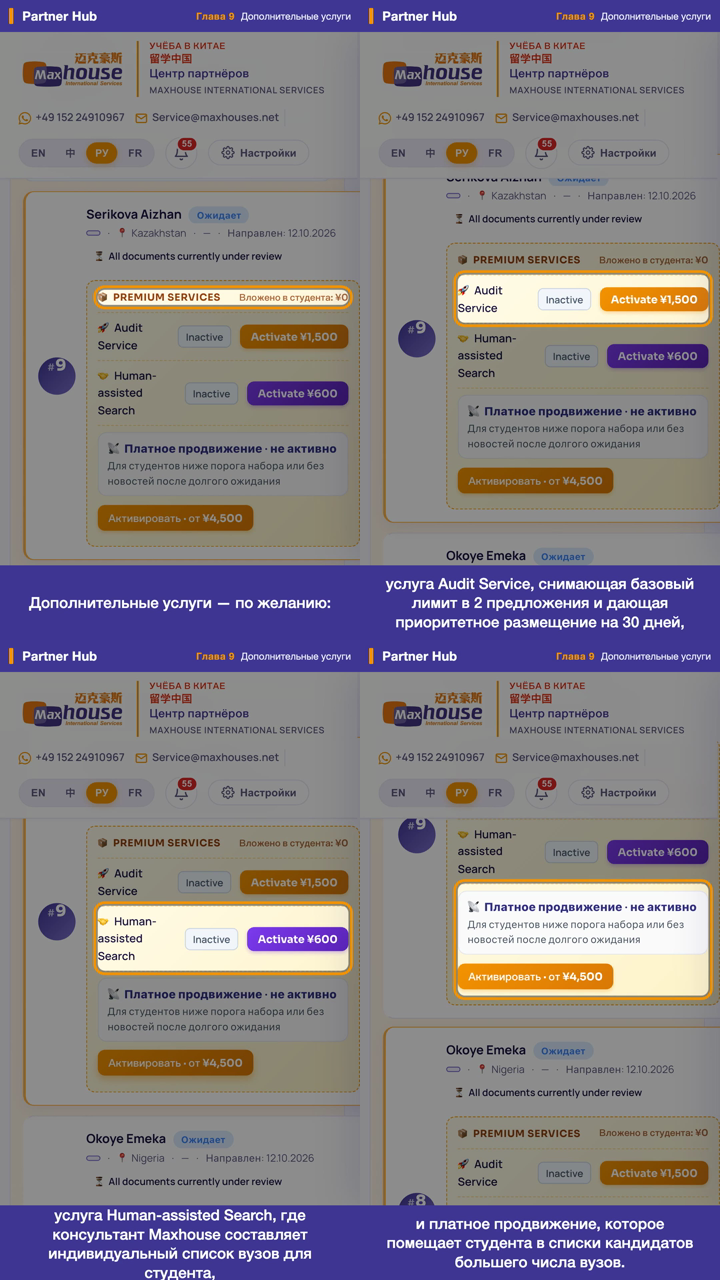
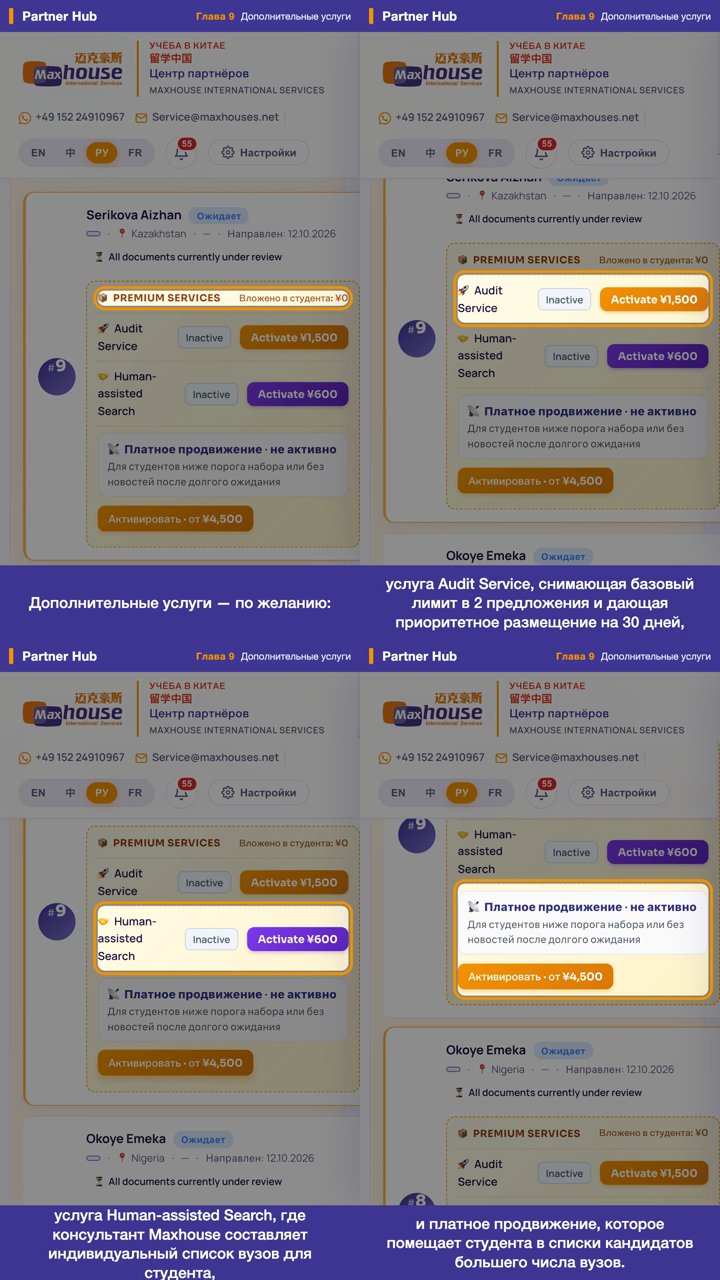
JOB-GP1 返工trip34: ch9 增值服务章(读-only) v185 四语横竖定版重录——review1 §一 背景。字幕/高亮 trip23(§三.6)已改对·本趟纯换录制底座 v184→v185(漏斗修复已上线 RULING-e)重录 ch9 4 镜使背景落定版。亲验 en-land 9-1/9-2+ru-land 9-1 原始帧+四语 land/port 联络表:增值服务区标题行右 Invested on this student ¥0(缺陷1 销账无负数)·Audit ¥1,500/Human-assisted ¥600/付费曝光 ¥4,500 起三行与字幕逐镜对账仍是·R

diff --git a/JOB-GP1-03-PROGRESS.md b/JOB-GP1-03-PROGRESS.md
@@ -1,4 +1,15 @@
-最后一趟：2026-10-13 第33趟 返工：**做了**＝ch5 材料退回章（两态·state 章）v185 四语横竖定版重录，落 review1 §三.3（5-2 字幕）+§三.4（5-4 真·审核中态）+§三.8（5-1 工作台）+§一（v185 背景）。**两态为何必需**：5-2 需退回态 `.reviewer-row-rejected`、5-4 需审核中态 `.badge-reviewing`，apply `st-pt03-reupload` 后 transcript 被产品 0104 supersede、退回行消失→单 rec pass 不可兼得（trip25 实证）。故**两态分录**：退回基线录 5-1/5-2/5-3，置态后单录 5-4，`prod-ch --tags` 按镜序拼成一章。**工具（jobs 工装·非产品码·rec 仍只读·DB 全走 db-run.sh）**：rec.mjs 加 `--only`/`--tagsuffix`、prod-ch.mjs 加多 tag 拼章、gp1-finish.mjs chapterShotDurs 合并 companion `b` 目录。**§三.4 真态（零改产品码·非前端伪造）**：录前 `st-pt03-reupload`（新建 transcript v2、uploaded_at 更晚、无新裁决）→ 产品自身 0104 supersede → 详情弹窗 transcript 槽真变 reviewing → 徽章真·本地化：zh「审核中」/ru「НА ПРОВЕРКЕ」/fr「EN EXAMEN」/en「REVIEWING」+ 矩阵「等待初步审核/Ожидает первичной проверки/En attente de la première vérification/Awaiting initial review」（四语 land 原始帧亲验，非 EN 回退、非伪造）。录后 `st-pt03-reupload-reset-cleanup` 删 v2 回退态。**§一**：5-1「Invested ¥0」无负数（缺陷1 销账）。8 片全 res OK+audio yes+no @gmail+4 镜 hl 全 resolve（passA 3+passB 1）。EN land 4 镜原始帧 + 四语 land 5-4 徽章帧 + 四语 land/port 联络表（帧取字幕中点）亲验；§十一对账四语写 REVIEW-*-shots.md（ch5 定版段）。时长 land en36.87/zh36.82/ru36.97/fr36.67·port en36.83/zh36.77/ru36.84/fr36.81s（4 镜）。开工+收工 verify **17/17 PASS 0 FAIL**，baseline 守住（scoped 复位，无全量 rebuild）。ch5 v1 在 `_v1/` 留底、dist 覆盖定版 v2。**全片不重拼**（待全部工作台章完后统一拼）。主仓库点名提交 JOB-GP1 不推；四语 ch5 联络表(land+port)+4 REVIEW+决定账+PROGRESS 推 mh-jobs。**下趟**＝下一含工作台章定版重录（ch9 9-2/9-3 已改·需 v185 背景重录 / ch10 读-only / OP-3·4·5 开场快剪，素材已不阻塞），一趟一章；全部完后四语十一项重审+重拼全片→写 SUMMARY-GP1。**GP-1 未收官，勿据旧『收官』停工。**
+最后一趟：2026-10-13 第34趟 返工：**做了**＝ch9 增值服务章（读-only）v185 四语横竖定版重录，落 review1 §一（v185 工作台背景）。ch9 字幕/高亮 trip23（§三.6）已改对——9-1 增值服务区标题、9-2 Audit ¥1,500、9-3 Human-assisted ¥600、9-4 付费曝光 ¥4,500 起，逐镜框对应真行，字幕/shot 一字未动（已 banked）。本趟纯换录制底座 v184→v185（漏斗修复已上线 RULING-e，rec.mjs trip28 已切 FILE=partner-portal-v185.html）重录 8 变体 + prod-ch 合成覆盖 dist，使背景数字落定版。亲验 en-land 9-1/9-2 原始帧 + ru-land 9-1 原始帧 + 四语 land/port 联络表：增值服务区标题行右「Invested on this student: **¥0** / 该学生已投入：¥0 / Вложено в студента: ¥0 / Investi pour cet étudiant : ¥0」**无负数**（缺陷1 销账，§一达标）；三服务行价与字幕逐镜对账仍「是」；RU/FR chrome 真本地化（Центр партнёров/Ожидает/Платное продвижение/Espace partenaires…），Audit Service/Human-assisted Search 等 LL 动态串英文回退（D-18-4 照录不补，留 SUMMARY）。8 片全 res OK+audio yes+no @gmail+4 镜 box 全 resolve。§十一对账四语写 REVIEW-*-shots.md（ch9 v185 定版段）。时长 land en22.73/zh23.77/ru26.38/fr24.18·port en22.79/zh23.76/ru26.46/fr24.30s（4 镜）。ch9 读-only 零写库，开工+收工 verify **17/17 PASS 0 FAIL**，baseline 守住。ch9 v1 早在 `_v1/` 留底、dist 覆盖定版 v2。**全片不重拼**（待全部工作台章完后统一拼）。主仓库点名提交 JOB-GP1 不推；四语 ch9 联络表(land+port)+4 REVIEW+决定账+PROGRESS 推 mh-jobs。**下趟**＝ch10（读-only v185 背景重录）/ OP-3·4·5 开场快剪（素材 3-8/7-0/7-1 已随 ch3/ch7 定版就位，不再阻塞），一趟一章；全部完后四语十一项重审+重拼全片→写 SUMMARY-GP1。**GP-1 未收官，勿据旧『收官』停工。**
+
+# 第 34 趟（2026-10-13 Mac mini 无人值守）· ch9 增值服务章（读-only）v185 定版重录（review1 §一）
+- **接手核对**：git status + 读齐 PROGRESS/loop-tail/RULING-b-review1/-c-rework/-d-funnel/-e-v185-live/-gp1/DECISIONS/CHOREOGRAPHY/storyboard/QUEUE。辨明 16:00 那趟「2 分钟即停」＝误判收官（loop-tail 实证），返工实为 trip29-33 做 ch1/3/7/8/5；trip33 列下趟 ch9 首。首行开工即改「返工进行中」，开工 verify **17/17 PASS**。
+- **选题**：ch9 读-only，字幕 trip23 已改对，缺的只是 v185 背景。纯重录，无置态。
+- **录制闭环**：`node rec.mjs --chapter 9 --orient {land,port} --lang {en,zh,ru,fr}`（引号位置参数避 LEDGER-3）8 变体 → `prod-ch --tag *-ch9` 合成 8 片覆盖 dist → `gp1-finish --stage contact --chapter 9` 四语联络表。
+- **自验**：8 片 res/audio/no-@gmail/4 镜 box 全过；亲验 en-land 9-1/9-2 + ru-land 9-1 原始帧（¥0 无负数、三服务价、RU 真本地化）+ 四语联络表（字幕逐镜对账「是」）；§十一四语写 REVIEW-*-shots.md（ch9 v185 定版段）。
+- **DB**：ch9 读-only，开工+收工 verify **17/17 PASS 0 FAIL**，零写库。
+- **改了**（主仓库，点名 JOB-GP1，不推）：`REVIEW-{en,zh,ru,fr}-shots.md`(追加 ch9 v185 定版段)、`DECISIONS.md`(D-34-1)。shots-v1.json/captions-v1.json 未改（trip23 已 banked）；成片/voice 不入 git；ch9 v1 在 `_v1/`、dist 覆盖 v2；全片不重拼。四语 ch9 联络表+4 REVIEW+决定账+PROGRESS 推 mh-jobs。
+- **下趟**：ch10 读-only v185 背景重录 / OP-3·4·5 开场快剪，一趟一章；全部完后十一项重审+重拼全片→写 SUMMARY-GP1。GP-1 未收官。
+
+【上一趟（第33趟）首行存档】最后一趟：2026-10-13 第33趟 返工：**做了**＝ch5 材料退回章（两态·state 章）v185 四语横竖定版重录，落 review1 §三.3（5-2 字幕）+§三.4（5-4 真·审核中态）+§三.8（5-1 工作台）+§一（v185 背景）。**两态为何必需**：5-2 需退回态 `.reviewer-row-rejected`、5-4 需审核中态 `.badge-reviewing`，apply `st-pt03-reupload` 后 transcript 被产品 0104 supersede、退回行消失→单 rec pass 不可兼得（trip25 实证）。故**两态分录**：退回基线录 5-1/5-2/5-3，置态后单录 5-4，`prod-ch --tags` 按镜序拼成一章。**工具（jobs 工装·非产品码·rec 仍只读·DB 全走 db-run.sh）**：rec.mjs 加 `--only`/`--tagsuffix`、prod-ch.mjs 加多 tag 拼章、gp1-finish.mjs chapterShotDurs 合并 companion `b` 目录。**§三.4 真态（零改产品码·非前端伪造）**：录前 `st-pt03-reupload`（新建 transcript v2、uploaded_at 更晚、无新裁决）→ 产品自身 0104 supersede → 详情弹窗 transcript 槽真变 reviewing → 徽章真·本地化：zh「审核中」/ru「НА ПРОВЕРКЕ」/fr「EN EXAMEN」/en「REVIEWING」+ 矩阵「等待初步审核/Ожидает первичной проверки/En attente de la première vérification/Awaiting initial review」（四语 land 原始帧亲验，非 EN 回退、非伪造）。录后 `st-pt03-reupload-reset-cleanup` 删 v2 回退态。**§一**：5-1「Invested ¥0」无负数（缺陷1 销账）。8 片全 res OK+audio yes+no @gmail+4 镜 hl 全 resolve（passA 3+passB 1）。EN land 4 镜原始帧 + 四语 land 5-4 徽章帧 + 四语 land/port 联络表（帧取字幕中点）亲验；§十一对账四语写 REVIEW-*-shots.md（ch5 定版段）。时长 land en36.87/zh36.82/ru36.97/fr36.67·port en36.83/zh36.77/ru36.84/fr36.81s（4 镜）。开工+收工 verify **17/17 PASS 0 FAIL**，baseline 守住（scoped 复位，无全量 rebuild）。ch5 v1 在 `_v1/` 留底、dist 覆盖定版 v2。**全片不重拼**（待全部工作台章完后统一拼）。主仓库点名提交 JOB-GP1 不推；四语 ch5 联络表(land+port)+4 REVIEW+决定账+PROGRESS 推 mh-jobs。**下趟**＝下一含工作台章定版重录（ch9 9-2/9-3 已改·需 v185 背景重录 / ch10 读-only / OP-3·4·5 开场快剪，素材已不阻塞），一趟一章；全部完后四语十一项重审+重拼全片→写 SUMMARY-GP1。**GP-1 未收官，勿据旧『收官』停工。**
 
 # 第 33 趟（2026-10-13 Mac mini 无人值守）· ch5 材料退回章（两态·state 章）v185 定版重录（review1 §三.3 + §三.4 + §三.8 + §一）
 - **接手核对**：git status + 读齐 PROGRESS/loop-tail/RULING-b-review1/-c-rework/-d-funnel/-e-v185-live/DECISIONS/storyboard/QUEUE。trip32 ch8 已定版；下趟列 ch5 首。首行开工即改「返工进行中」，开工 verify **17/17 PASS**（#10 pt-03 退回态在）。

diff --git a/JOB-GP1-decisions.md b/JOB-GP1-decisions.md
@@ -608,3 +608,12 @@
 - **非四种停下情形**：§三.3/.4/.8 + §一全在 §0.3/§0.4 + 成片工装范围，记账继续。
 - **改了**（主仓库，点名 JOB-GP1，不推）：`rec/rec.mjs`(--only/--tagsuffix)、`rec/prod-ch.mjs`(多 tag 拼章)、`rec/gp1-finish.mjs`(chapterShotDurs 合并 companion)、`REVIEW-{en,zh,ru,fr}-shots.md`(追加 ch5 定版段)、`DECISIONS.md`。shots-v1.json/captions-v1.json 本趟未改（5-4 shot 定义 trip25 已落、字幕四语 trip24/16 已 banked）；成片/voice 不入 git；ch5 v1 在 `_v1/` 留底、dist 覆盖定版 v2。四语 ch5 联络表(land+port)+4 REVIEW+决定账+PROGRESS 推 mh-jobs。
 - **下趟**：下一含工作台章定版重录——ch9（9-2/9-3 字幕 trip23 已改·需 v185 背景重录）/ ch10（读-only v185）/ OP-3·4·5 开场快剪（素材 3-8/7-0/7-1 已随 ch3/ch7 定版就位，不再阻塞）。一趟一章；全部完后四语十一项重审+重拼全片→写 SUMMARY-GP1。**GP-1 未收官。**
+
+## D-34-1 · ch9 增值服务章 v185 定版重录（返工第34趟 2026-10-13，review1 §一 背景）
+- **背景**：ch9（增值服务章，4 镜 9-1..9-4，读-only·列表卡内联无弹窗）字幕/高亮 trip23（§三.6）已改对——9-1 增值服务区标题、9-2 Audit ¥1,500、9-3 Human-assisted ¥600、9-4 付费曝光 ¥4,500 起，逐镜框对应真行。但 trip23 录制底座仍 v184（有漏斗/负数缺陷）。§一 列 ch9 为背景含工作台数字的章，v185 漏斗修复上线后（RULING-e）须 v185 重录。
+- **做法**：rec.mjs 已在 trip28 切 v185（FILE=partner-portal-v185.html）。本趟纯重录——`node rec.mjs --chapter 9 --orient {land,port} --lang {en,zh,ru,fr}` 8 变体 + `prod-ch --tag *-ch9` 合成 8 片覆盖 dist。字幕/shot 定义一字未改（trip23 已 banked）。ch9 读-only，无置态/复位。
+- **自验**：亲验 en-land 9-1/9-2 原始帧 + ru-land 9-1 原始帧 + 四语 land/port 联络表——增值服务区标题行右「Invested on this student: ¥0 / 该学生已投入：¥0 / Вложено в студента: ¥0 / Investi pour cet étudiant : ¥0」**无负数**（缺陷1 销账，§一达标）；三服务行价与字幕逐镜对账仍「是」；RU/FR chrome 真本地化，Audit Service/Human-assisted Search 等 LL 动态串英文回退（D-18-4 照录不补，留 SUMMARY）。8 片 res OK + audio yes + 4 镜 box 全 resolve + no @gmail。时长 land en22.73/zh23.77/ru26.38/fr24.18 · port en22.79/zh23.76/ru26.46/fr24.30s。
+- **DB**：ch9 读-only，开工+收工 verify **17/17 PASS 0 FAIL**，baseline 守住。
+- **非四种停下情形**：§一背景在 §0.3 范围（无写库）+ 成片工装范围，记账继续。
+- **改了**（主仓库，点名 JOB-GP1，不推）：`REVIEW-{en,zh,ru,fr}-shots.md`(追加 ch9 v185 定版段)、`DECISIONS.md`。shots-v1.json/captions-v1.json 本趟未改（trip23 已 banked）；成片/voice 不入 git；ch9 v1 早在 `_v1/` 留底、dist 覆盖定版 v2；全片不重拼（待全部工作台章完后统一拼）。四语 ch9 联络表(land+port)+4 REVIEW+决定账+PROGRESS 推 mh-jobs。
+- **下趟**：ch10（读-only v185 背景重录）/ OP-3·4·5 开场快剪（素材 3-8/7-0/7-1 已随 ch3/ch7 定版就位）。一趟一章；全部完后四语十一项重审+重拼全片→写 SUMMARY-GP1。**GP-1 未收官。**

diff --git a/JOB-GP1-REVIEW-en-shots.md b/JOB-GP1-REVIEW-en-shots.md
@@ -17,7 +17,8 @@
 - 页头平台 WhatsApp/Email 不遮（D-14-3/D-15-1 批准）。演示生 Serikova Aizhan，无真 PII。
 - 高亮逐张亲眼复验：9-2 框 Audit Service 行、9-3 框 Human-assisted Search 行、9-4 框 Exposure boost 行，各不越界。
 
-## ch5 §三.3（5-2 字幕与画面对不上，返工第24趟 2026-10-12）
+### ch9 v185 定版重录（返工第34趟 2026-10-13，review1 §一 背景）
+trip23 的字幕/高亮（§三.6）照旧正确，本趟只换**录制底座 v184→v185**（漏斗修复已上线，RULING-e）重录 ch9 4 镜，使背景数字落定版。亲验 en-land 9-1/9-2 原始帧 + en-land/port 联络表：增值服务区标题行右「Invested on this student: **¥0**」（缺陷1 销账，无负数）；Audit ¥1,500 / Human-assisted ¥600 / Exposure boost from ¥4,500 三行与字幕逐镜对账仍「是」。4 镜 box 全 resolve、无 MISS、全片 no @gmail。时长 land **22.73s** / port **22.79s**（v185 重录值，替代 trip23 的 22.82/22.78）。开工+收工 verify 17/17 PASS（ch9 读-only 零写库）。
 问题（review1 §三.3）：5-2 旧 EN 字幕「The reason is written in English, so every agent can read it.」声称画面上有"用英文写的退回理由"，但中介端退回详情**不渲染任何自由文本理由**，只渲染本地化裁决芯片（EN「Modification requested」）。ZH/RU/FR 已在 trip16（D-16-5）改成描述真实画面；EN 当初因"英文芯片=英文、自洽"未改。review1 §三.3 明令「不要因为英文已清关就不改」，EN 一并改成描述真实画面。
 改法：EN 字幕改为「The transcript was returned — the Maxhouse review team requested a change.」与 zh/ru/fr 对齐。缓存帧重烧（5-2 为详情弹窗帧，不含工作台漏斗，不碰 DB）——改 `shots-v1.json` capEN[5-2]（烧字幕源）+ `captions-v1.json` shots[5-2].en（配音源）→ 重配 EN 5-2 配音（3.3s→4.4s，仍在 5-2 的 6.51s 视窗内，不越界进 5-3）→ `prod-ch` 重合成 EN ch5 横竖（缓存帧，无需重录）。
 

diff --git a/JOB-GP1-REVIEW-zh-shots.md b/JOB-GP1-REVIEW-zh-shots.md
@@ -15,6 +15,9 @@
 - 时长：land 23.82s / port 23.82s。no @gmail。章节条左标签「合作伙伴端」。演示生 Serikova Aizhan，无真 PII。
 - 逐张亲眼复验：各镜框对应行，不越界。
 
+### ch9 v185 定版重录（返工第34趟 2026-10-13，review1 §一 背景）
+trip23 字幕/高亮照旧正确，本趟只换录制底座 v184→v185 重录 ch9 4 镜使背景落定版。亲验 ZH land/port 联络表：增值服务区标题行右「该学生已投入：**¥0**」（缺陷1 销账，无负数）；Audit ¥1,500 / 人工搜索 ¥600 / 付费曝光 ¥4,500 起三行与字幕逐镜对账仍「是」。中文字幕无乱码方块，4 镜 box 全 resolve、无 MISS、no @gmail。时长 land **23.77s** / port **23.76s**（v185 重录值）。ch9 读-only 零写库，开工+收工 verify 17/17 PASS。
+
 ## ch5 §三.4（5-4 字幕说审核中、徽章却 REJECTED，返工第25趟 2026-10-12）
 问题（review1 §三.4）：5-4 字幕「回到审核中，不用整份重交。」，但旧实现用 `setInterval` 把 `.badge-rejected` 伪造成「Under review」= 前端假帧，画面从未真变审核中。
 改法（真态化·零改产品代码）：靠产品自己的 0104 supersede 逻辑——`states/st-pt03-reupload.sql` 给 pt-03 真·新建一行更正版 transcript（version2、uploaded_at 更晚、无新裁决）→ 旧 rejected 裁决被取代 → 详情弹窗徽章真变 `.badge-reviewing`。shot 5-4 去伪造、`hl=.badge-reviewing,.reviewer-row-pending`、`expect=[.badge-reviewing]`、`forbid=[.badge-rejected]`。zh 字幕本就"回到审核中"、与真态一致，不改。复位 `st-pt03-reupload-reset-cleanup.sql`，verify 17/17 往返守住。

diff --git a/JOB-GP1-REVIEW-ru-shots.md b/JOB-GP1-REVIEW-ru-shots.md
@@ -17,6 +17,9 @@ D-18-4：RU 界面里产品动态串回退成英文（PREMIUM SERVICES / Audit S
 - 逐张亲眼复验（含 port 9-3 全分辨率）：各镜框对应行，port 下 Human-assisted Search 标签换行致行加高，高亮只罩该行、未越到 boost 行。
 - item-7 RU 禁用词扫描：0 命中（_scan-ru-forbidden 73 串 PASS）。
 
+### ch9 v185 定版重录（返工第34趟 2026-10-13，review1 §一 背景）
+trip23 字幕/高亮照旧正确，本趟只换录制底座 v184→v185 重录 ch9 4 镜使背景落定版。亲验 RU land 9-1 原始帧 + RU land/port 联络表：增值服务区标题行右「Вложено в студента: **¥0**」（缺陷1 销账，无负数）；chrome 俄文本地化（Центр партнёров / Ожидает / Направлен / Платное продвижение · не активно / Активировать · от ¥4,500 / Настройки）；Audit Service / Human-assisted Search 等 LL 动态串英文回退（D-18-4，照录不补，留 SUMMARY）。4 镜 box 全 resolve、无 MISS、no @gmail。时长 land **26.38s** / port **26.46s**（v185 重录值）。ch9 读-only 零写库，开工+收工 verify 17/17 PASS。
+
 ## 开场快剪 OP-2（review1 §五，返工第26趟 2026-10-12）
 问题/依据/做法同 EN REVIEW「开场快剪 OP-2」节。本趟只做 OP-2（素材 ch6 6-1/6-2 两份盲 offer）；OP-3/4/5 静止卡面待缺陷2 裁后接做。零改产品代码/迁移。
 

diff --git a/JOB-GP1-REVIEW-fr-shots.md b/JOB-GP1-REVIEW-fr-shots.md
@@ -17,6 +17,9 @@ D-18-4：FR 界面里产品动态串回退成英文（PREMIUM SERVICES / Audit S
 - 逐张亲眼复验：各镜框对应行，不越界。
 - item-7 FR 禁用词扫描：0 命中（_scan-fr-forbidden 73 串 PASS）。
 
+### ch9 v185 定版重录（返工第34趟 2026-10-13，review1 §一 背景）
+trip23 字幕/高亮照旧正确，本趟只换录制底座 v184→v185 重录 ch9 4 镜使背景落定版。亲验 FR land/port 联络表：增值服务区标题行右「Investi pour cet étudiant : **¥0**」（缺陷1 销账，无负数）；chrome 法文本地化（Espace partenaires 等）；Audit Service / Human-assisted Search 等 LL 动态串英文回退（D-18-4，照录不补，留 SUMMARY）。4 镜 box 全 resolve、无 MISS、no @gmail。时长 land **24.18s** / port **24.30s**（v185 重录值）。ch9 读-only 零写库，开工+收工 verify 17/17 PASS。
+
 ## 开场快剪 OP-2（review1 §五，返工第26趟 2026-10-12）
 问题/依据/做法同 EN REVIEW「开场快剪 OP-2」节。本趟只做 OP-2（素材 ch6 6-1/6-2 两份盲 offer）；OP-3/4/5 静止卡面待缺陷2 裁后接做。零改产品代码/迁移。
 
